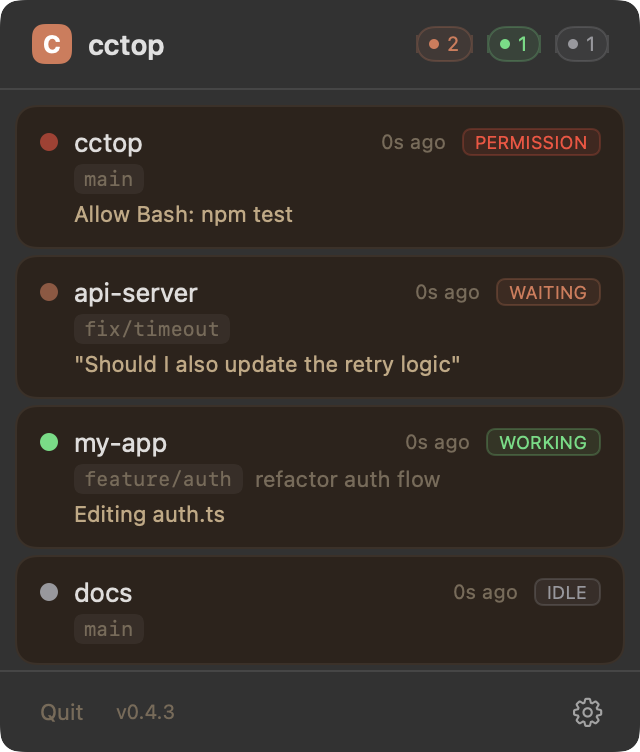
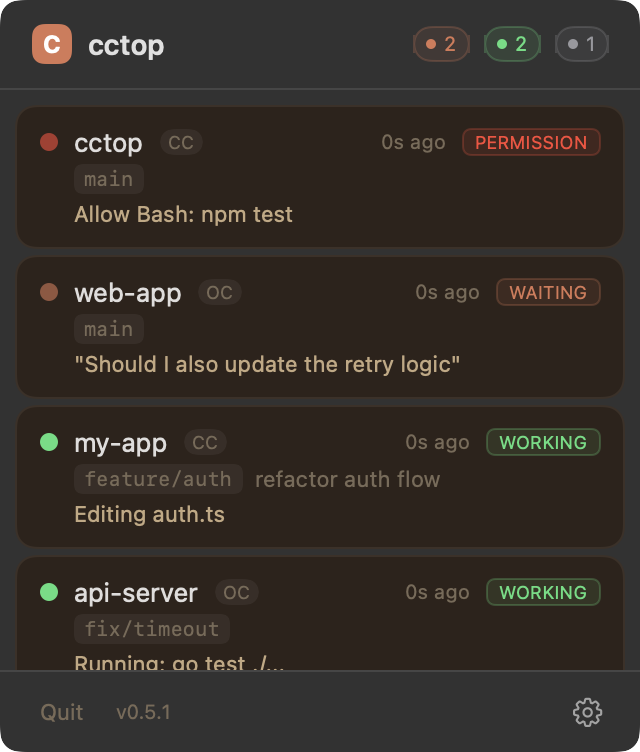
feat: fix install flow and regenerate screenshots
Switch opencode install from cp (requires cloned repo) to curl from
GitHub raw URLs so users can install without cloning. Update menubar
screenshots to show mixed CC + opencode sessions.

diff --git a/menubar/CctopMenubar/Views/EmptyStateView.swift b/menubar/CctopMenubar/Views/EmptyStateView.swift
@@ -7,7 +7,9 @@ struct EmptyStateView: View {
 
     private static let ccMarketplace = "claude plugin marketplace add st0012/cctop"
     private static let ccInstall = "claude plugin install cctop"
-    private static let ocInstall = "cp -r /Applications/cctop.app/Contents/Resources/opencode-plugin/ ~/.config/opencode/plugins/cctop/"
+    private static let ocMkdir = "mkdir -p ~/.config/opencode/plugins/cctop"
+    // swiftlint:disable:next line_length
+    private static let ocCurl = "curl -sL https://raw.githubusercontent.com/st0012/cctop/master/plugins/opencode/plugin.js -o ~/.config/opencode/plugins/cctop/plugin.js"
 
     init() {
         let fm = FileManager.default
@@ -106,7 +108,8 @@ struct EmptyStateView: View {
             // opencode setup
             VStack(spacing: 6) {
                 sectionHeader("opencode")
-                commandRow(Self.ocInstall, index: 3)
+                commandRow(Self.ocMkdir, index: 3)
+                commandRow(Self.ocCurl, index: 4)
             }
 
             stepRow(text: "Restart sessions after installing")

diff --git a/README.md b/README.md
@@ -8,13 +8,13 @@
 A macOS menubar app that monitors your AI coding sessions at a glance — so you only switch when something actually needs you. Works with [Claude Code](https://docs.anthropic.com/en/docs/claude-code) and [opencode](https://github.com/nicholasgriffintn/opencode).
 
 <p align="center">
-  <img src="docs/menubar-screenshot.png" alt="cctop menubar popup" width="380">
+  <img src="docs/menubar-light.png" alt="cctop menubar popup" width="340">
 </p>
 
-<p align="center"><em>Monitoring sessions across projects.</em></p>
+<p align="center"><em>Monitoring Claude Code and opencode sessions side by side.</em></p>
 
 <p align="center">
-  <img src="docs/menubar-dark.png" alt="cctop status badges" width="340">
+  <img src="docs/menubar-dark.png" alt="cctop dark mode" width="340">
 </p>
 
 <p align="center"><em>Status badges show what's urgent — permission requests, waiting input, or still working.</em></p>
@@ -61,7 +61,8 @@ Restart any running Claude Code sessions to activate (`/exit` then reopen). New 
 
 ```bash
 mkdir -p ~/.config/opencode/plugins/cctop
-cp plugins/opencode/plugin.js plugins/opencode/package.json ~/.config/opencode/plugins/cctop/
+curl -sL https://raw.githubusercontent.com/st0012/cctop/master/plugins/opencode/plugin.js \
+  -o ~/.config/opencode/plugins/cctop/plugin.js
 ```
 
 Restart opencode to activate. Sessions are tracked automatically — no per-project config needed.
